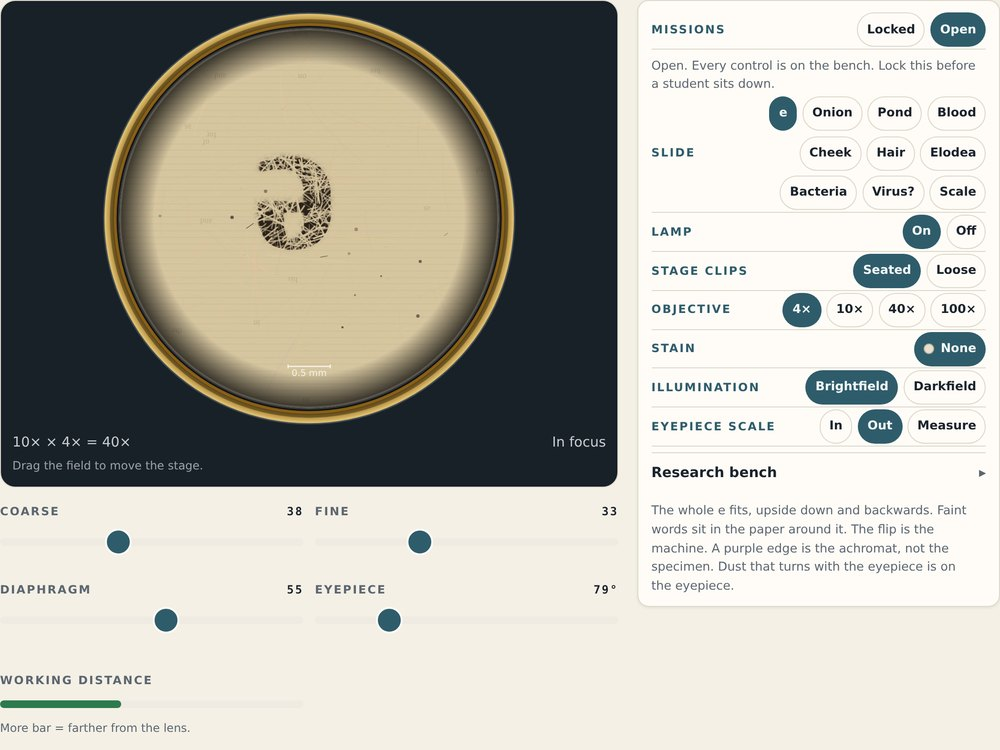
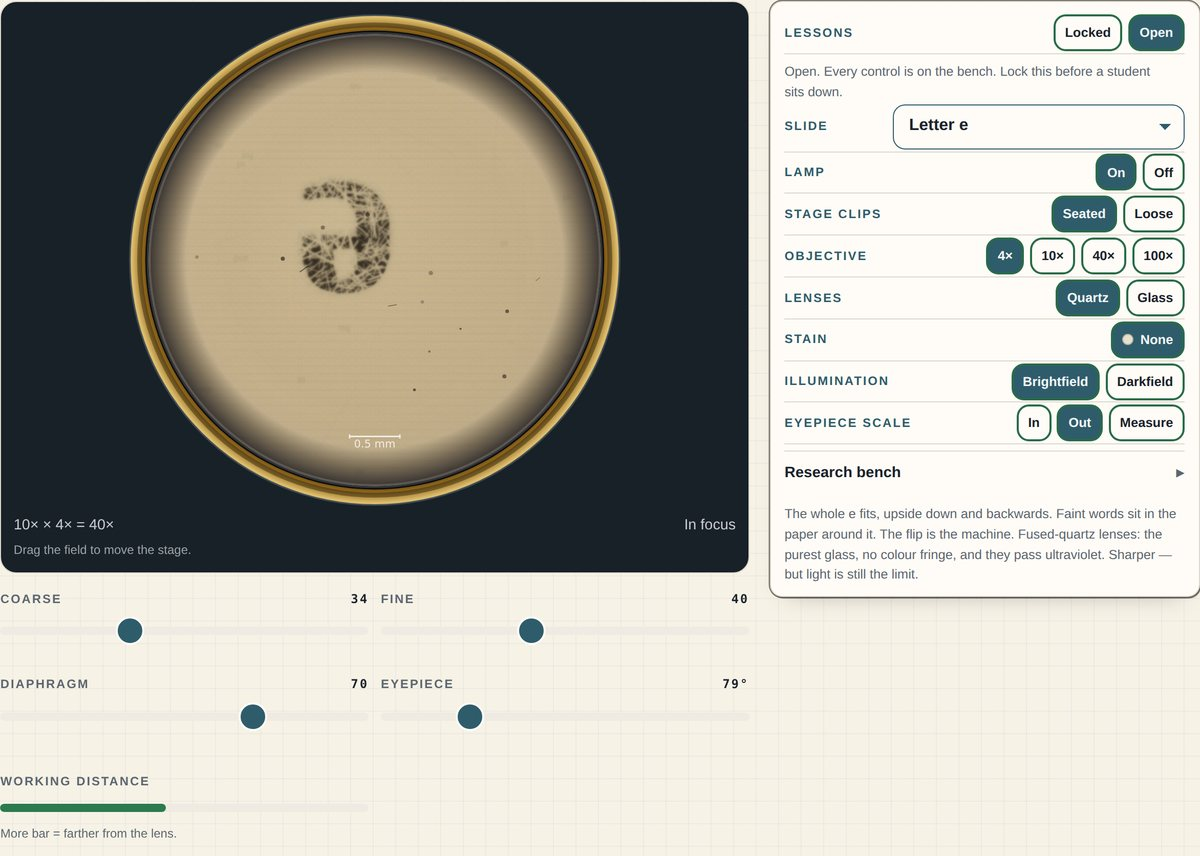
Microscope picture guide: new photo of the bench with the slide drop-down
Claude-Session: https://claude.ai/code/session_011WzYbvjURZrs99a1yYh6hs

diff --git a/aog-deploy/sw.js b/aog-deploy/sw.js
@@ -8,7 +8,7 @@
  * not run on this file. Forget the bump and returning visitors keep the stale
  * page from their cache.
  */
-const CACHE = 'aog-cache-2026.09.27.m7090'   // MERGE: ONE PAINT (no choppy jumps) + ROOM, PAGE AND FACS PROJECT DRAWINGS + THE SKETCHBOOK SITE. previous: m7080 / m7077
+const CACHE = 'aog-cache-2026.09.27.m7091'   // MERGE: ONE PAINT (no choppy jumps) + ROOM, PAGE AND FACS PROJECT DRAWINGS + THE SKETCHBOOK SITE. previous: m7080 / m7077
 // previous: 'aog-cache-2026.09.27.m7077'   // ONE PAINT: every page shows once, fully built (no jumps between units). previous: m7076
 // previous CACHE = 'aog-cache-2026.09.27.m7080'   // FINAL MERGE: PENCIL EVERYWHERE, NO EMOJI; ALL COURSES, SEL, NOVELS, CROSSWALK LINKS. previous: m7078
 // const CACHE = 'aog-cache-2026.09.27.m7079'   // CROSSWALK DESK CARD PRINTS AS A PENCIL-FRAMED HALF-LETTER CARD, TWO TO A PAGE WITH A CUT LINE. previous: m7078 / CROSSWALK: ANCHOR CHART TRIGGERS LINK TO THEIR CHARTS; DESK CARD FOR EACH NEURO-AFFIRMING ADJUSTMENT. previous: m7077 / LAST MARKS DRAWN: FIRE, TICKS, CROSSES, STAR, PRINTER, MY NOTES PENCIL. previous: m7076 / TYPED MARKS (STARS, TICKS, BOXES) DRAWN IN PENCIL SITE-WIDE. previous: m7075 / SEL PAGES: PENCIL DRAWINGS FOR EVERY EMOJI, ALT TEXT KEPT. previous: m7074 / MERGE THE SKETCH PAD (magical-cerf) WITH THE PENCIL BANNERS. previous: m7073 / m7067
